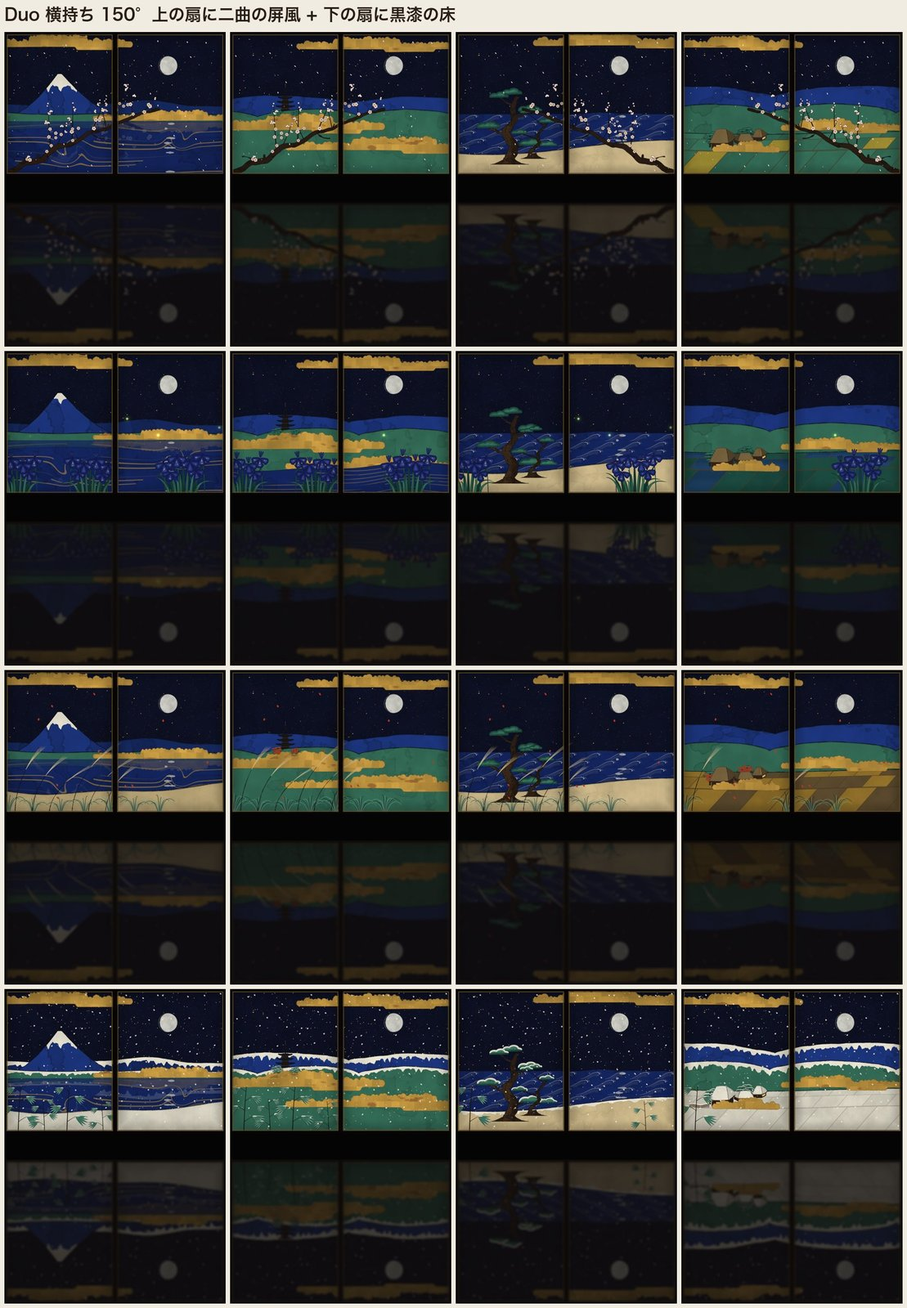
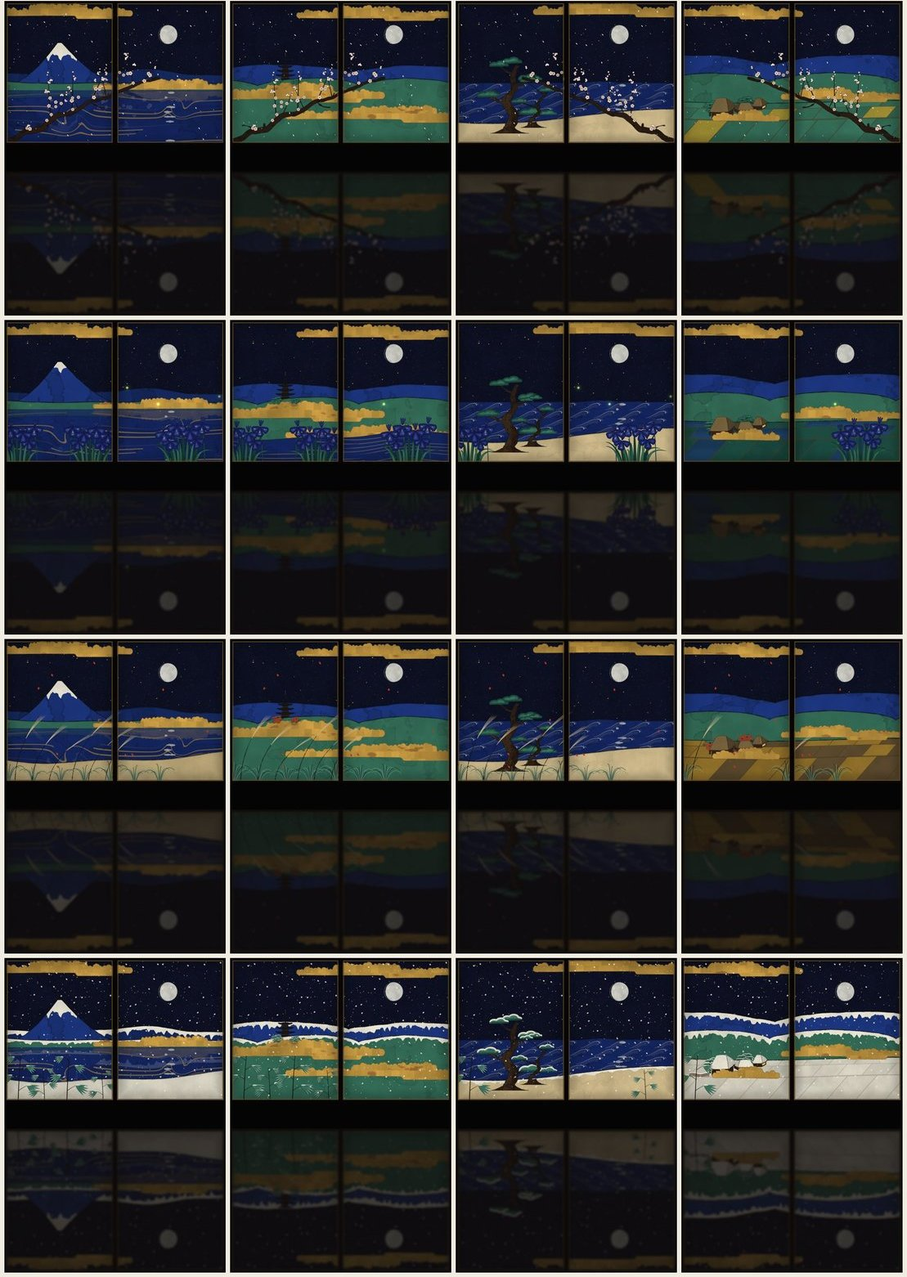
docs: Duo 記事の流れを組み直す（ツールバーの判断・折り目は半開きが対象・reservedRegions・縦向きの月屏風・まとめ）
Claude-Session: https://claude.ai/code/session_018QWZyYbXzqsouiFUZNcR9J

diff --git a/articles/iphone_duo_apps.md b/articles/iphone_duo_apps.md
@@ -8,7 +8,7 @@ published: false
 
 個人で出している iOS アプリを、iPhone Duo に合わせて順番に直していきました。対象は Intento、Graphica、Graphica Playground、Toreta、Programming Quiz、チェケラ、FFMultiplier の 7 本と、Duo のために新しく作った月屏風の計 8 本です。
 
-やってみると、直したことはアプリごとにばらばらに見えて、実は同じいくつかの論点に集まっていました。この記事では、アプリ別ではなく論点別に「何を前提にして、どう組み直したか」をまとめます。
+やってみると、直したことはアプリごとにばらばらに見えて、実は同じいくつかの論点に集まっていました。この記事では、アプリ別ではなく論点別に「何を前提にして、どう組み直したか」をまとめます。閉じた画面、ツールバー、余白、画面の分け方、折り目、と外側から順に進み、最後にヒンジそのものを使った月屏風の話をします。
 
 ## 実機は持っていないけれど、触ったことで変わった
 
@@ -29,15 +29,24 @@ published: false
 
 - **Programming Quiz**: 問題文が長いと、問題と選択肢が 1 画面に収まらなくなりました。収まるときはこれまでどおり 1 画面で見せ、収まらないときだけスクロールできるようにしています（`ViewThatFits`）。結果の画面も同じです
 - **FFMultiplier**: チュートリアルを固定サイズで組んでいたので、縦に収まりませんでした。固定サイズをやめました
-- **チェケラ**: 右の列のぶん横幅が減り、録音パネルの REC / STOP / PLAY の文字が単語の途中で折り返しました。1 行に収まらないときは、大きいアイコンだけのボタンに切り替えます
+- **チェケラ**: 右の列のぶん横幅が減り、録音パネルの REC / STOP / PLAY の文字が単語の途中で折り返しました。1 行に収まらないときは、文字を外してアイコンを大きくしたボタンに切り替えます
+
+<!-- TODO: チェケラの録音パネルがアイコンだけのボタンに切り替わった状態のスクショ（文字サイズを上げて再現できなければ、この行ごと省く） -->
 
 どれも Duo 専用の分岐ではなく、「縦が足りないとき」「横が足りないとき」にどう縮むかを決めただけです。なので横向きの iPhone や Split View でも同じように効きます。
 
-## ツールバーは「横に並ぶ」前提で整理する
+## ツールバーは右の列に移る前提で整理する
 
-バーが右の縦の列に移ると、項目は上から下へ 1 列に並びます。並べられる数は少なく、入りきらない項目はメニュー（⋯）へ回ります。アイコンだけだと何のボタンか分かりにくい、という問題もあります。
+バーが右の縦の列に移ると、項目は上から下へ 1 列に並びます。並べられる数は少なく、入りきらない項目はメニュー（⋯）へ回ります。
 
-最初から全部を決めていたわけではありません。ある程度は整理したつもりで閉じた画面を見てみると、自前で画面の上に置いていたボタンだけが右の列に移らず上に残っていて、そこがどうにも浮いて見えました。そこから、**バーの項目は右の列に移る前提で、入りきらなければ畳まれるように**整理し直しました。Tech Talk「Raise the bar with iPhone Duo」の指針と照らし合わせて、Intento・Graphica・Playground・Toreta・FFMultiplier で次の 4 つをそろえています。
+最初から全部を決めていたわけではありません。ある程度整理したつもりで閉じた画面を見てみると、右の列に移らず**上のバーに取り残される**ボタンがあって、そこがどうにも浮いて見えました。
+
+一番気になったのは Intento の詳細画面の編集ボタンです。これを取り残さないために、もともと画面の中にあったお気に入りや削除のボタンもまとめてツールバーに寄せ、入りきらなければ ⋯ に畳まれるようにしました。やってみて分かったのは、**⋯ に畳まれる形にしておくと、タイトル付きのボタンでも右の列に移る**ということです。結果として、お気に入りが主、編集と削除は ⋯ の中、とアクションの優先度も見た目で分かるようになったので、この形を採用しています。
+
+![閉じた Duo の Intento の詳細](/images/iphone_duo_apps/intento-closed-detail.jpg =300x)
+*お気に入りと ⋯（編集・削除）が右の列に入る*
+
+ほかのアプリも、Tech Talk「Raise the bar with iPhone Duo」の指針と照らし合わせて、次の 4 つをそろえました。
 
 | やったこと | 中身 |
 |---|---|
@@ -46,7 +55,9 @@ published: false
 | あふれる順を決める | `visibilityPriority` で、最後まで残す項目と先にメニューへ送る項目を決める |
 | 自前の ⋯ をやめる | 自作のメニューを `ToolbarOverflowMenu` に入れる |
 
-上に残って浮いていたのは、たとえばチェケラの録音パネルです。もとは自前の重ね表示で、× と SAVE をパネルの中に置いていました。これをシステムのシートに変え、× には `.close`、SAVE には `.confirm` の role とタイトルを付けてシートのツールバーに載せると、閉じた Duo では 2 つとも右の列に移ります。シートなので、下にスワイプして閉じる操作もそのまま付いてきました。
+タイトルが要るのは、**アイコンだけのボタンはメニューに載らない**からです。タイトルの無い項目はメニューの行を描けないので、畳まれる代わりに捨てられます。`accessibilityLabel` を付けていても、この穴は埋まりません。
+
+チェケラの録音パネルは、もとは自前の重ね表示で、× と SAVE をパネルの中に置いていました。これをシステムのシートに変え、× には `.close`、SAVE には `.confirm` の role とタイトルを付けてシートのツールバーに載せると、閉じた Duo では 2 つとも右の列に移ります。シートなので、下にスワイプして閉じる操作もそのまま付いてきました。
 
 ![閉じた Duo のチェケラ録音パネル](/images/iphone_duo_apps/checkitout-closed-record.jpg =300x)
 *× と保存がシートのツールバーに載り、右の列に移る*
@@ -55,36 +66,29 @@ Programming Quiz の閉じるボタンも、画面の左上に自前で置いて
 
 ![閉じた Duo の Programming Quiz](/images/iphone_duo_apps/quiz-closed-question.jpg =300x)
 
-4 つの中で一番効いたのはタイトルでした。Intento を開いた Duo で自分で触っていたら、追加ボタンが見当たらなくなりました。調べると、**アイコンだけのボタンはメニューに載らず、畳まれる代わりに消えていた**のです。タイトルの無い項目はメニューの行を描けないので、捨てられます。`accessibilityLabel` を付けていても、この穴は埋まりません。
-
-ただ、タイトルを付けても、追加がメニューの奥に畳まれてしまうなら使いにくいままです。Intento のリスト列のバーは、システムのサイドバー切替を含めて 2〜3 個しか持てません。そこで「この画面で一番押すのはどれか」から置き場所を決め直しました。
-
-- 追加は一番よく押すので、広い画面ではバーから外し、**詳細の列の右下に目立つ丸い `+`** を置く。リスト列を閉じても届く場所にしたかった
-- 最初はリマインダーにならって、リスト列の下に「＋ やることを追加」のラベル付きのボタンを置いた。でもリスト列を閉じると一緒に消えるので、詳細の列へ移した
-- ラベルは付けない。詳細の中身に重なる位置なので小さいほうがよく、`+` は説明が無くても分かる
-- 設定は、フィルタ・タグ・並び順と同じ ⋯ メニューの行へ移し、リスト列のバーを 2 つに減らした
-
-あふれる順も、アプリごとに「この画面で何をしに来たか」で決めました。Playground のエディタは Parameters / Export / Favorites を最後まで残し、設定と Pro を先に送ります。FFMultiplier は全削除と共有を先に送ります。
+あふれる順は、アプリごとに「この画面で何をしに来たか」で決めました。Playground のエディタは Parameters / Export / Favorites を最後まで残し、設定と Pro を先に送ります。FFMultiplier は全削除と共有を先に送ります。
 
 ![閉じた Duo の Graphica Playground](/images/iphone_duo_apps/playground-closed-editor.jpg =300x)
+
+逆に、畳まれては困るものもあります。Intento の追加ボタンは、一番よく押すのでフローティングボタンのように使いたく、どこに置くかを何度か試しました。リスト列のバーに置くと、この幅で持てる 2〜3 個に埋もれてメニューに畳まれます。リスト列の下に置くと、リスト列を閉じたときに一緒に消えます。最終的に、広い画面では**詳細の列の下のツールバーの右端に、目立つ丸い `+`** を置く形に落ち着きました。リスト列を閉じても届き、詳細の中身にも重なりにくい位置です。
+
+![開いた Duo の Intento](/images/iphone_duo_apps/intento-open-list.jpg)
+*追加は詳細の列の右下に置く*
 
 role を付けたことで、普通の iPhone でも閉じるボタンの × が右上から左上へ移りました。Duo のための整理が、ほかの端末の見た目も少し変えます。
 
 ## 左右で違う safe area は contentMargins に任せる
 
-右の列があるので、Duo は safe area が左右で違います。中身に `padding` を直接付けていると、片側だけ詰まって見えます。
+右の列があるので、Duo は safe area が左右で違います。中身に `padding` を直接付けていると、片側だけ詰まって見えます。Toreta・Graphica・Playground では、スクロールの外周の余白を `padding` から `contentMargins` に寄せました。余白の量だけ伝えて、safe area の内側でそろえるのはシステムに任せる形です。
+
+横スクロールの列は扱いを分けました。Toreta のコレクション画面のチップの列は、余白を打ち消して右の列の下まで流しています。見出しやカードは safe area の内側に置いたままです。
+
+ただ、右の列の下に潜った部分は、そのままだとツールバーとチップが重なって読みにくくなります。そこで、**右の列に近づくほど強くなるぼかし（progressive blur）**をかけました。SwiftUI には場所によって強さが変わるぼかしが無いので、Metal の `layerEffect` で画面上の位置に応じてぼかしています。レイヤーに焼いてから処理するので、中にガラスのビューを入れるとガラスが描かれない点には注意が要ります。Playground のヒントのチップの列も同じ仕組みです。
 
 ![閉じた Duo の Toreta コレクション](/images/iphone_duo_apps/toreta-closed-collection.jpg =300x)
+*チップの列は右の列の下まで流し、潜った部分をぼかす*
 
-Toreta・Graphica・Playground では、スクロールの外周の余白を `padding` から `contentMargins` に寄せました。余白の量だけ伝えて、safe area の内側でそろえるのはシステムに任せる形です。
-
-横スクロールの列は扱いを分けました。Playground のヒントのチップの列は、右の列の下まで流して、タブの下に潜らせています。見出しや入力欄は safe area の内側に置いたままです。Toreta のチップの列も、余白を打ち消して端まで流しています。
-
-右の列の下に潜った部分は、そのままだとタブとチップが重なって読みにくくなります。そこで Playground では、**右の列に近づくほど強くなるぼかし（progressive blur）**をかけました。SwiftUI には場所によって強さが変わるぼかしが無く、ガラスのビューに `.blur` をかけるとガラスが描かれなくなるので、Metal の `layerEffect` で画面上の位置に応じてぼかしています。チップもガラスをやめて、暗い面と細い縁に変えました。Graphica のプロフィールの SNS リンクの横スクロールも、同じ仕組みで両端をぼかしています。
-
-![開いた Duo の Toreta コレクション](/images/iphone_duo_apps/toreta-open-collection.jpg)
-
-## 画面を分けるかは size class と縦横で決める
+## 画面を分けるかは size class と縦横比で決める
 
 開いた Duo は横が regular になり、iPad に近い扱いです。「左右に分けるか、1 カラムに積むか」は、もともと size class で決めるつもりでした。ところが実装を AI に任せてみると、2 か所で意図とずれていました。
 
@@ -98,24 +102,36 @@ Toreta・Graphica・Playground では、スクロールの外周の余白を `pa
 ここから、次のルールにしました。
 
 - 構成の切り替えは `horizontalSizeClass` を起点にし、ピクセル幅の閾値は使わない
-- regular でも、左右に分けるのは**横長のときだけ**。縦横は safe area を足し戻したウィンドウ全体の寸法で見る
+- regular でも、左右に分けるのは**横長のときだけ**。縦横比は safe area を足し戻したウィンドウ全体の寸法で見る
 - 判定は 1 か所に置き、子には結果（Bool）だけを渡す。子が size class を読み直すと、親と条件がずれる
 - 幅で決めてよいのは、格子の列数のような**中身の詰め方**だけ
 
 ## 折り目を避けてレイアウトする
 
-ワークショップで公式アプリを見ていて、一番真似したいと思ったのが折り目の扱いです。たとえばフィットネスアプリは、開いた画面でコンテンツが折り目をまたがないように並べています。Graphica の作品一覧と Playground のレッスン一覧では、これを真似しました。
+折り目が問題になるのは、平らに開いたときではありません。**本のように半開きにした状態（book posture）**です。平らに開いていれば画面は 1 枚の広い画面として見えるので、ふつうに並べればよい。半開きにすると折り目の部分が奥へ引っ込み、そこにかかった文字やカードが読みにくくなります。
 
-iOS 27.1 では、折り目の位置を `GeometryProxy.reservedRegions(kind: .division)` で取れます。これを使って、**カードや文字が折り目をまたがない**ように組みました。
+ワークショップで公式アプリを見ていて、一番真似したいと思ったのがこの扱いです。たとえばフィットネスアプリは、半開きのときにコンテンツが折り目をまたがないように並べています。Graphica の作品一覧と Playground のレッスン一覧では、これを真似しました。
 
 ![開いた Duo の Playground 学ぶ](/images/iphone_duo_apps/playground-open-learn.jpg)
-*列の間の隙間が、ちょうど折り目に来る*
+*平らに開いたときは、ふつうの 2 列で並べる*
 
-- **格子は列の間を折り目にする**: Playground のレッスン一覧（学ぶ）と、Graphica の作品一覧（ギャラリー・マイページ）の格子は、開いたときに 2 列にします。縦の折り目があれば、その幅をそのまま列の間の隙間にします。`LazyVGrid` / `GridItem` には折り目を避ける指定が無いので、自前の `Layout` で組みました
+<!-- TODO: 同じ「学ぶ」画面を半開き（book posture）で撮り、上の平らなスクショと並べて比較する -->
+
+### 折り目の位置は reservedRegions で取る
+
+`LazyVGrid` や `GridItem` には、折り目を避ける指定がありません。ワークショップで聞いて、ネイティブには無いことを確かめました。なので格子は自前の `Layout` で組んでいます。
+
+折り目の位置は、iOS 27.1 の `GeometryProxy.reservedRegions(kind: .division)` で取れます。これが便利だったのは、**Duo 以外の端末では nil、避ける必要がない状態では幅 0 で返ってくる**ことです。端末や状態ごとに分岐を書かなくても、格子の計算に共通で挟んでおくだけで、半開きのときだけ折り目の幅が列の間の隙間に入ります。
+
+- **格子は列の間を折り目にする**: Playground のレッスン一覧（学ぶ）と、Graphica の作品一覧（ギャラリー・マイページ）の格子は、開いたときに 2 列にします。折り目があれば、その幅をそのまま列の間の隙間にします
 - **分かれ目は割合で持つ**: 折り目の値は、配置の 1 フレーム後にしか届きません。最初は列の幅を絶対値で持っていたら、開閉のたびに左の列だけガタつきました。分かれ目を幅に対する割合で持つと、幅のアニメーションに両方の列が追従し、遅れて届く補正もアニメーションでならせます
 - **はみ出すものは止める**: Playground のトップのガラスのカードは、折り目の手前で止めます
 
 ![開いた Duo の Graphica ギャラリー](/images/iphone_duo_apps/graphica-open-gallery.jpg)
+
+<!-- TODO: Graphica のギャラリーも半開きで撮れたら差し替える -->
+
+### バランスより「かぶせない」、posture に寄せすぎない
 
 ワークショップでは、この対応について Apple の方に相談もしました。左右の列の幅のバランスを完璧にそろえるより、**半開きのときに折り目にコンテンツをかぶせないことのほうが大事なので、いい対応ですよ**、と言ってもらえました。折り目を列の間に合わせると、左右の列の幅に差が出ることがあり、そこに悩んでいたので、優先順位がはっきりして助かりました。
 
@@ -126,7 +142,9 @@ iOS 27.1 では、折り目の位置を `GeometryProxy.reservedRegions(kind: .di
 ![開いた Duo の Playground ホーム](/images/iphone_duo_apps/playground-open-home.jpg)
 *横スクロールの列は、折り目をまたいでもよい*
 
-画面を 2 つに分ける画面は、iOS 27.1 の `ArrangementView`（split スタイル）に任せました。表示する部分と操作する部分を渡すと、横長なら左右、縦なら上下に分け、**開いた Duo では分かれ目が折り目に合います**。折り目を避けるために位置を計算したというより、「見る側」と「触る側」を正しく分けておいたら、結果として折り目を避けてくれた、という感覚です。
+### 分ける画面は ArrangementView に任せる
+
+画面を 2 つに分ける画面は、iOS 27.1 の `ArrangementView`（split スタイル）に任せました。表示する部分と操作する部分を渡すと、横長なら左右、縦なら上下に分け、**半開きの Duo では分かれ目が折り目に合います**。折り目を避けるために位置を計算したというより、「見る側」と「触る側」を正しく分けておいたら、結果として折り目を避けてくれた、という感覚です。
 
 - **Programming Quiz**: 問題と選択肢を分けました。「次の問題へ」ボタンの場所は常に確保して、答えても高さが変わらないようにしています
 - **FFMultiplier**: ゲーム画面の数字の表示と、入力のボタンを分けました
@@ -149,23 +167,30 @@ iOS 27.1 では、折り目の位置を `GeometryProxy.reservedRegions(kind: .di
 
 描画は、角度で変わらない層と角度で変わる層に分けました。ヒンジを動かしている間は軽い層だけを描き直すので、1 フレーム約 2ms で済んでいます。Duo 以外の端末ではスライダーで角度を変えます。
 
-### 縦長の画面には床を敷いて映り込ませる
+### 縦向きの Duo には床を敷いて映り込ませる
 
-屏風は横に広い絵なので、普通の iPhone の縦長の画面だと上下が余ります。最初は屏風を画面いっぱいに描き、主役の梅を下の操作の帯より上に置くなど、絵の側で操作を避けていました。場所や季節ごとに配置を調整する必要があり、無理が出ていました。
+開いた Duo を縦向きに持つと、扇が上下に並びます。最初は、横に広い屏風の絵をそのまま上下の扇に分けて描いていました。でもこれだと、上の扇に月と空、下の扇に手前の景色、と絵が折り目で横に切れて、屏風を開いているようには見えません。
 
-そこで、**屏風を高さの 75% に縮めて上に立て、下の 25% に黒漆の床を敷きました**。床には屏風が上下反転して映り込みます。映りは足元がいちばん濃く、離れるほど薄く、ぼかしを強くしています。舞う花びらや雪も映ります。床はボタンの置き場にもなったので、絵の側で操作を避ける必要がほぼ無くなりました。
+そこで、**上の扇に二曲の屏風を立て、下の扇には黒漆の床を敷きました**。床には屏風が上下反転して映り込みます。映りは足元がいちばん濃く、離れるほど薄く、ぼかしを強くしています。舞う花びらや雪も映ります。床はボタンの置き場にもなりました。
 
-![縦長の画面の月屏風と黒漆の床](/images/iphone_duo_apps/tsukibyobu-portrait-floor.jpg)
+![縦向きの Duo の月屏風。左が前、右が床を敷いたあと](/images/iphone_duo_apps/tsukibyobu-duo-floor-before-after.jpg)
+*左: 絵を上下の扇に分けていたころ / 右: 上の扇に屏風を立て、下の扇を床にした*
 
-Duo を横に持つと、扇が上下に並びます。このときは上の扇に屏風を立て、下の扇を床にしています。**閉じ気味ほど映りが縦に縮んで濃く、平らに開くほど伸びて薄く**なるので、ヒンジの角度で床の見え方も変わります。
+床の見え方もヒンジの角度で変わります。**閉じ気味ほど映りが縦に縮んで濃く、平らに開くほど伸びて薄く**なります。実際に屏風を床に置いて、その床を傾けていくような見え方です。
 
-![横持ちの Duo と黒漆の床](/images/iphone_duo_apps/tsukibyobu-landscape-floor.jpg =400x)
+![縦向きの Duo と黒漆の床](/images/iphone_duo_apps/tsukibyobu-landscape-floor.jpg =400x)
 
 ## まとめ
 
-<!-- TODO: まとめを書く -->
+8 本を直してみて、Duo のための工夫は「Duo のときだけ何かする」ではなく、「狭いとき」「分かれているとき」に画面がどう振る舞うべきかを決め直す作業だったと感じています。
 
-- 閉じた Duo は背が低く、バーは右の列に移る。縦も横も足りない前提で縮み方を決める
-- ツールバーは横の列に並ぶ前提で、タイトル・role・あふれる順を決めておく
-- 画面を分けるかは size class と縦横で決め、判定は 1 か所に置く
-- 折り目は、公式アプリにならってコンテンツがまたがないように組む。ただし特定の posture に最適化しすぎず、どの形でも成り立つことを優先する
+- **閉じた Duo は背が低く、バーは右の列に移る**。縦も横も足りない前提で、どう縮むかを決める。専用の分岐にしなければ、横向きの iPhone や Split View にも効く
+- **ツールバーは右の列に移る前提で整理する**。上に取り残されるボタンを作らない。タイトルと role を持たせ、⋯ に畳まれてよいものと、畳まれては困るものを分ける。畳まれては困るものは、置き場所から決め直す
+- **左右で違う safe area は `contentMargins` に任せる**。横スクロールは端まで流し、潜った部分はぼかす
+- **画面を分けるかは size class と縦横比で決め、判定は 1 か所に置く**。AI に任せるとピクセル幅の閾値や子での判定が紛れ込むので、ルールとして書いておく
+- **折り目は半開きのときにコンテンツをかぶせない**。`reservedRegions` を共通で挟めば、Duo 以外や平らなときは何もしない。左右の比率は追いすぎず、特定の posture に最適化しすぎない
+- **ヒンジは避けるだけでなく、体験の主役にもできる**
+
+実機を持っていなくても、一度触って公式アプリの振る舞いを見て、迷ったところを聞けたことが一番大きかったです。折りたたみの端末に合わせる機会があれば、まず半開きにして、折り目に何が乗っているかを見てみてください。
+
+<!-- TODO: まとめは最後の校正で整える -->
